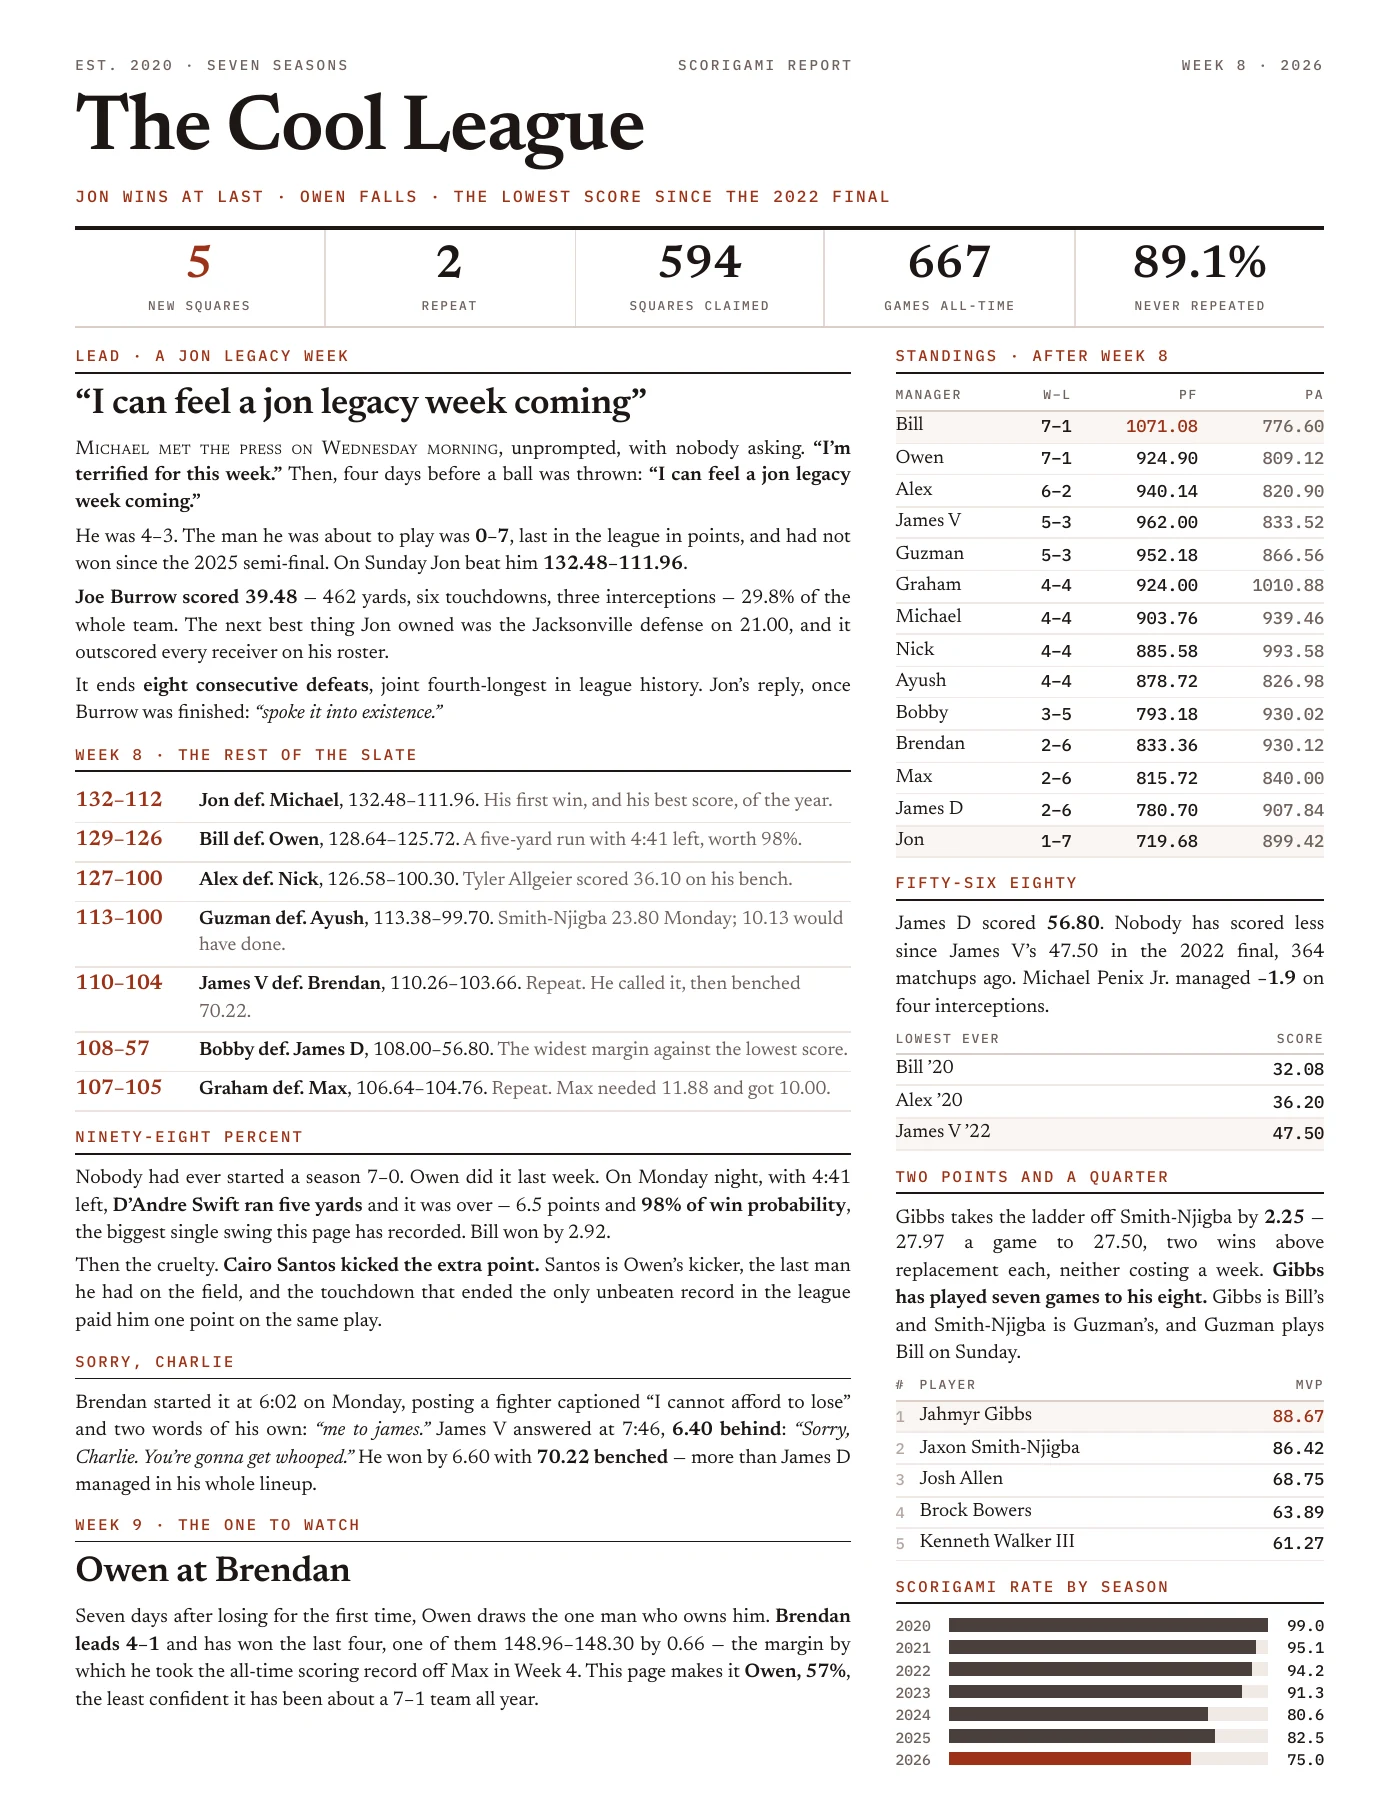
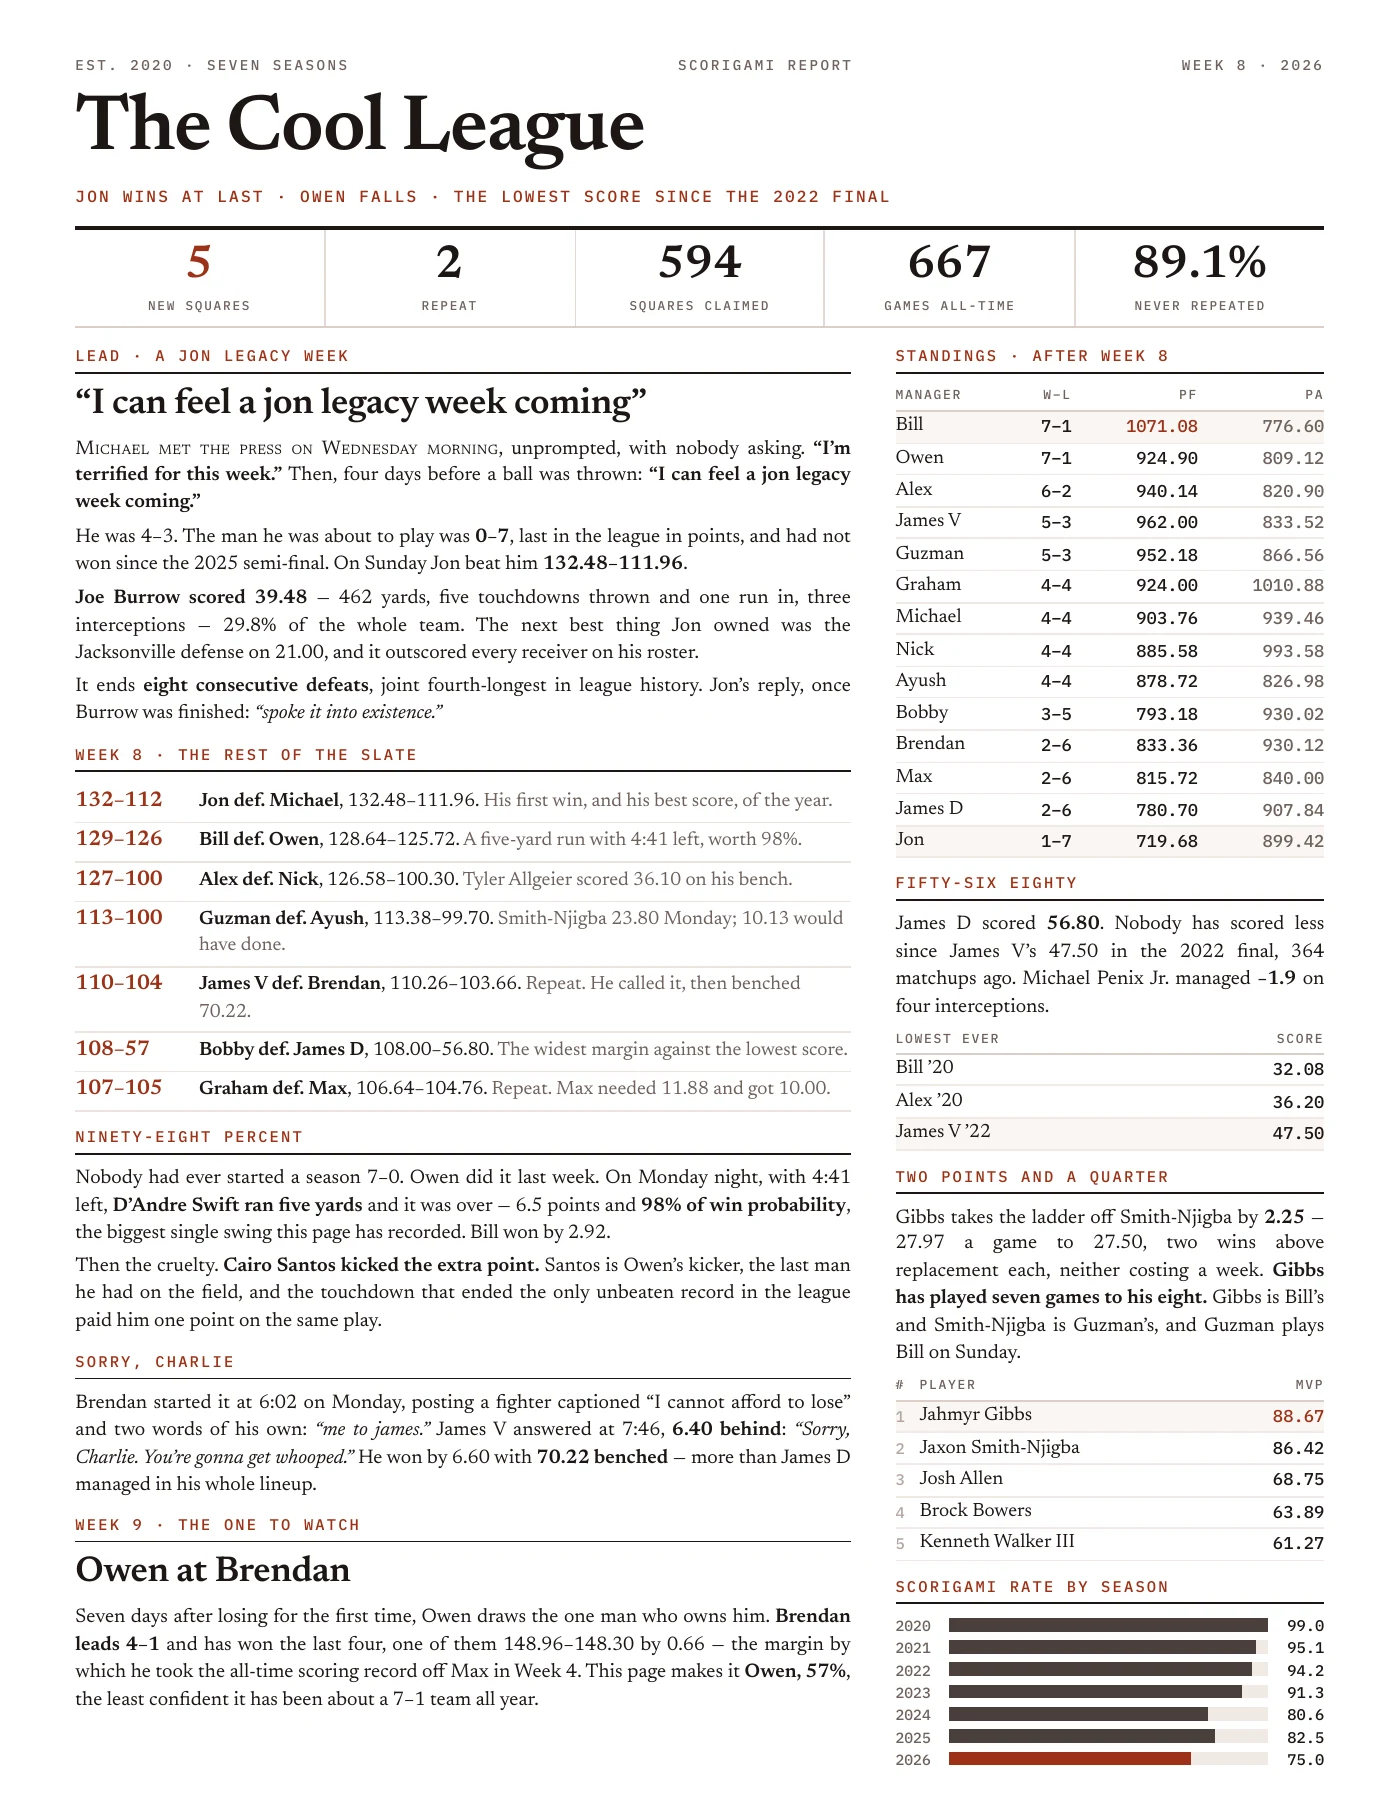
Burrow threw five touchdowns and ran in a sixth
ESPN's box reads "6 TOT TD", which is five thrown plus a nine-yard run.
Three places treated all six as passes.

The advertisement caption was the bad one. It said he "threw six
touchdowns" and that "every one of them is a line on this map -- passer
to receiver", which is wrong about the count and wrong about the map:
a rushing touchdown has no receiver and is not on it. It now says five
are lines on the map and the one he ran in is not, which is both true
and a better argument for the product.

The article lead already said "six total touchdowns" and was correct.

Claude-Session: https://claude.ai/code/session_013zvrbkmsLqJGurJxMMmd5c

Changed region(s): [[0.0614, 0.3091, 0.6143, 0.3709]]

diff --git a/public/index.html b/public/index.html
@@ -846,7 +846,7 @@ const ISSUE={
   deck:'Michael called it on Wednesday morning, four days early, about a team that had not won a game all year. Then he lost to it. Owen’s 7–0 went the same weekend.',
   photo:{src:'news/w8-burrow.webp', h:788,
     alt:'Joe Burrow celebrating in the end zone for Cincinnati',
-    cap:'Joe Burrow, 39.48 — 462 yards and six touchdowns, and 29.8% of a team that had not won a game before Sunday.'},
+    cap:'Joe Burrow, 39.48 — 462 yards, five touchdowns thrown and a sixth run in himself, and 29.8% of a team that had not won a game before Sunday.'},
   lead:[
    'Michael met the press on Wednesday morning, unprompted, with nobody asking. “I’m terrified for this week,” he told the room. Then, four days before a ball was thrown: <em>“I can feel a jon legacy week coming.”</em>',
    'He was 4–3. The man he was about to play was <strong>0–7</strong>, last in the league in points, and had not won a game since the 2025 semi-final.',
@@ -918,7 +918,7 @@ const ISSUE={
    {a:'Ayush',b:'Graham',pa:110.2,pb:113.0,fav:'Graham',pct:53,
     note:'<strong>Ayush is 4–0 against him</strong> and has never lost this fixture — 155.46, 135.38, 126.42, 116.30. The projection makes Graham a narrow favourite anyway.'}]},
   ad:{img:'news/passiverse.webp',alt:'The Passiverse: the NFL passing network, every player connected by throws and catches',
-    cap:'<strong>Joe Burrow threw six touchdowns on Sunday</strong> and every one of them is a line on this map — passer to receiver, the way the whole league is drawn.',
+    cap:'<strong>Joe Burrow threw five touchdowns on Sunday</strong> and ran in a sixth. The five are lines on this map — passer to receiver, the way the whole league is drawn. The one he ran in is not.',
     title:'Every throw. Every catch. 1999–2026.',
     body:['Twenty-seven seasons of NFL passing drawn as a single network: every identified passer and receiver, joined by the balls that actually went between them. Search any player. Filter by season, team, position, targets or catches. Two games thrown in.',
      'Built by <strong>Graham Batkin</strong>, of Olave Garden.'],
